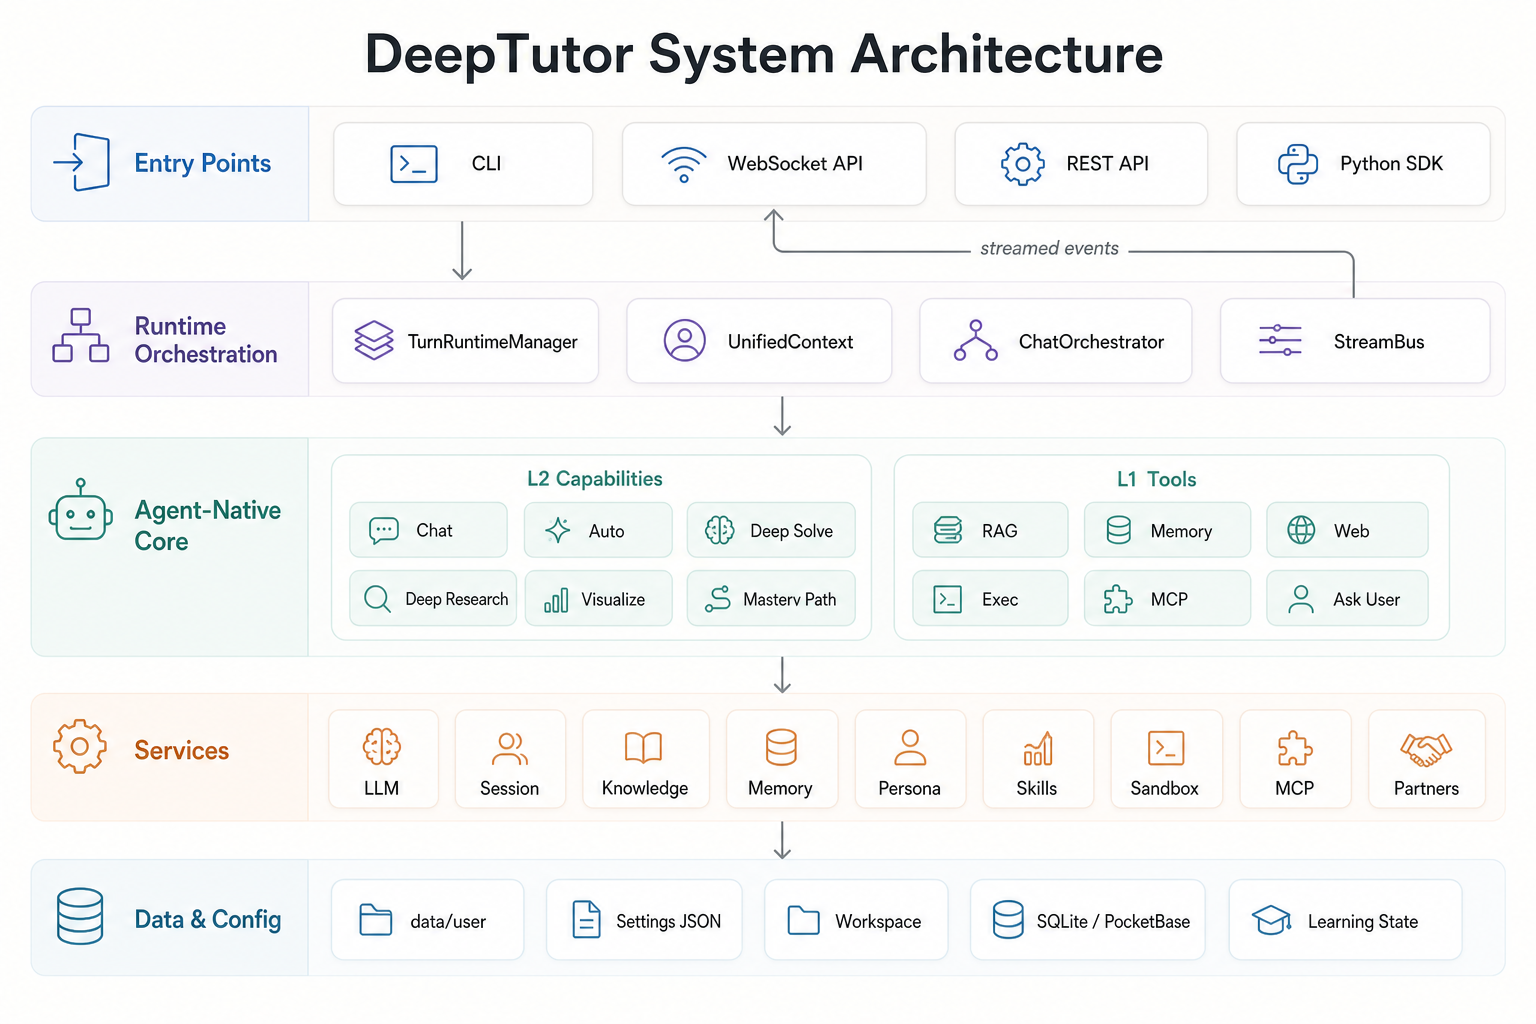
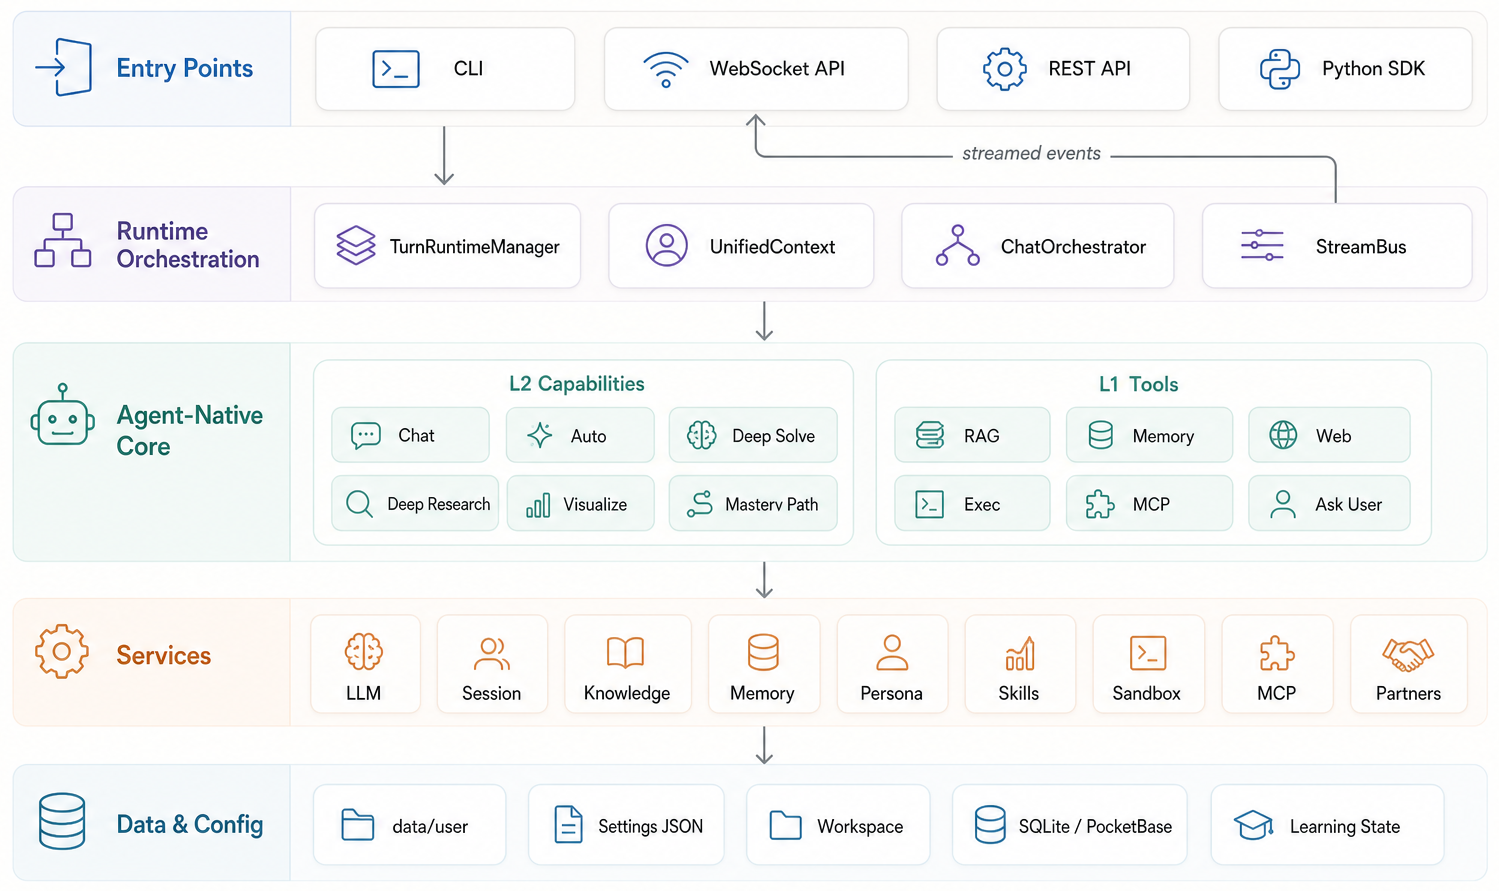
update

diff --git a/web/app/(workspace)/partners/[partnerId]/page.tsx b/web/app/(workspace)/partners/[partnerId]/page.tsx
@@ -10,6 +10,7 @@ import Link from "next/link";
 import { useParams, useRouter, useSearchParams } from "next/navigation";
 import {
   ArrowLeft,
+  Archive,
   Loader2,
   MessageCircle,
   Play,
@@ -30,8 +31,9 @@ import PartnerAvatar from "@/components/partners/PartnerAvatar";
 import PartnerChat from "@/components/partners/PartnerChat";
 import PartnerChannels from "@/components/partners/PartnerChannels";
 import PartnerConfigure from "@/components/partners/PartnerConfigure";
+import PartnerArchives from "@/components/partners/PartnerArchives";
 
-type Tab = "chat" | "configure" | "channels";
+type Tab = "chat" | "configure" | "channels" | "archive";
 
 function PartnerDetail() {
   const params = useParams<{ partnerId: string }>();
@@ -42,7 +44,9 @@ function PartnerDetail() {
 
   const initialTab = (searchParams.get("tab") as Tab) || "chat";
   const [tab, setTab] = useState<Tab>(
-    ["chat", "configure", "channels"].includes(initialTab) ? initialTab : "chat",
+    ["chat", "configure", "channels", "archive"].includes(initialTab)
+      ? initialTab
+      : "chat",
   );
   const [partner, setPartner] = useState<PartnerInfo | null>(null);
   const [loading, setLoading] = useState(true);
@@ -128,6 +132,7 @@ function PartnerDetail() {
     { key: "chat", label: t("Chat"), icon: MessageCircle },
     { key: "configure", label: t("Configure"), icon: Settings2 },
     { key: "channels", label: t("Channels"), icon: Radio },
+    { key: "archive", label: t("Archive"), icon: Archive },
   ];
 
   return (
@@ -221,6 +226,10 @@ function PartnerDetail() {
               color={partner.color}
               avatar={partner.avatar}
             />
+          </div>
+        ) : tab === "archive" ? (
+          <div className="mx-auto h-full max-w-5xl overflow-hidden px-5 py-5">
+            <PartnerArchives partnerId={partnerId} onToast={setToast} />
           </div>
         ) : (
           <div className="mx-auto h-full max-w-3xl overflow-y-auto px-5 py-5">

diff --git a/web/components/partners/PartnerChat.tsx b/web/components/partners/PartnerChat.tsx
@@ -39,6 +39,11 @@ interface ChatMsg {
   error?: boolean;
 }
 
+function resetsVisibleConversation(content: string) {
+  const command = content.trim().split(/\s+/, 1)[0]?.toLowerCase();
+  return command === "/new" || command === "/clear";
+}
+
 export default function PartnerChat({
   partnerId,
   partnerName,
@@ -193,7 +198,11 @@ export default function PartnerChat({
       wsRef.current.send(
         JSON.stringify({ content, session_id: sessionIdRef.current }),
       );
-      setMessages((msgs) => [...msgs, { role: "user", content }]);
+      if (resetsVisibleConversation(content)) {
+        setMessages([]);
+      } else {
+        setMessages((msgs) => [...msgs, { role: "user", content }]);
+      }
       setDraft({ events: [], content: "" });
       setStreaming(true);
       scrollToBottom();

diff --git a/deeptutor/partners/channels/telegram.py b/deeptutor/partners/channels/telegram.py
@@ -20,6 +20,7 @@ from deeptutor.partners.channels.base import BaseChannel
 from deeptutor.partners.config.paths import get_media_dir
 from deeptutor.partners.config.schema import Base, DeliveryOverrides, StreamingSupport
 from deeptutor.partners.helpers import split_message
+from deeptutor.services.partners.commands import build_partner_help_text, partner_command_palette
 
 TELEGRAM_MAX_MESSAGE_LEN = 4000  # Telegram message character limit
 TELEGRAM_REPLY_CONTEXT_MAX_LEN = (
@@ -179,12 +180,14 @@ class TelegramChannel(BaseChannel):
     name = "telegram"
     display_name = "Telegram"
 
-    # Commands registered with Telegram's command menu. Only commands the
-    # partner runtime actually handles belong here — the agent loop has no
-    # command router, so anything else would be silently broken UX.
+    # Commands registered with Telegram's command menu. Keep this generated
+    # from the partner command registry so Telegram and Web stay in sync.
     BOT_COMMANDS = [
         BotCommand("start", "Start the bot"),
-        BotCommand("help", "Show available commands"),
+        *[
+            BotCommand(spec["command"].removeprefix("/"), spec["description"])
+            for spec in partner_command_palette()
+        ],
     ]
 
     @classmethod
@@ -264,7 +267,8 @@ class TelegramChannel(BaseChannel):
         self._app.add_handler(CommandHandler("start", self._on_start))
         self._app.add_handler(CommandHandler("help", self._on_help))
 
-        # Add message handler for text, photos, voice, documents
+        # Add message handler for text, photos, voice, documents. Runtime
+        # slash commands like /new must reach the partner command router.
         self._app.add_handler(
             MessageHandler(
                 (
@@ -273,8 +277,7 @@ class TelegramChannel(BaseChannel):
                     | filters.VOICE
                     | filters.AUDIO
                     | filters.Document.ALL
-                )
-                & ~filters.COMMAND,
+                ),
                 self._on_message,
             )
         )
@@ -485,13 +488,7 @@ class TelegramChannel(BaseChannel):
         """Handle /help command, bypassing ACL so all users can access it."""
         if not update.message:
             return
-        await update.message.reply_text(
-            "🐈 TutorBot commands:\n"
-            "/new — Start a new conversation\n"
-            "/stop — Stop the current task\n"
-            "/restart — Restart the bot\n"
-            "/help — Show available commands"
-        )
+        await update.message.reply_text(build_partner_help_text())
 
     @staticmethod
     def _sender_id(user) -> str:

diff --git a/tests/services/partners/test_partner_runtime.py b/tests/services/partners/test_partner_runtime.py
@@ -320,3 +320,52 @@ class TestContextAssembly:
             "role": "assistant",
             "content": "first reply",
         } in context.conversation_history
+
+
+class TestPartnerCommands:
+    @pytest.mark.asyncio
+    async def test_new_archives_current_session_without_calling_orchestrator(
+        self, partners_root, fake_orchestrator
+    ):
+        fake_orchestrator.script = _finish("first reply")
+        runner = _runner(partners_root)
+        await runner.process_message(_msg("first question"))
+        assert len(fake_orchestrator.seen_contexts) == 1
+
+        reply = await runner.process_message(_msg("/new"))
+
+        assert "Started a new conversation" in reply
+        assert len(fake_orchestrator.seen_contexts) == 1
+        assert runner.store.conversation_history("telegram:42") == []
+        archived = [session for session in runner.store.list_sessions() if session["archived"]]
+        assert len(archived) == 1
+        assert archived[0]["message_count"] == 2
+        assert archived[0]["session_key"].startswith("_archived_")
+
+    @pytest.mark.asyncio
+    async def test_archived_session_does_not_feed_next_turn(
+        self, partners_root, fake_orchestrator
+    ):
+        runner = _runner(partners_root)
+        fake_orchestrator.script = _finish("old reply")
+        await runner.process_message(_msg("old question"))
+        await runner.process_message(_msg("/new"))
+
+        fake_orchestrator.script = _finish("fresh reply")
+        await runner.process_message(_msg("fresh question"))
+
+        context = fake_orchestrator.seen_contexts[-1]
+        assert context.conversation_history == []
+
+    @pytest.mark.asyncio
+    async def test_telegram_bot_command_suffix_is_supported(
+        self, partners_root, fake_orchestrator
+    ):
+        fake_orchestrator.script = _finish("first reply")
+        runner = _runner(partners_root)
+        await runner.process_message(_msg("first question"))
+
+        reply = await runner.process_message(_msg("/new@DeepTutorBot"))
+
+        assert "Started a new conversation" in reply
+        assert len(fake_orchestrator.seen_contexts) == 1

diff --git a/deeptutor_cli/chat.py b/deeptutor_cli/chat.py
@@ -108,7 +108,7 @@ async def _chat_repl(state: ChatState) -> None:
         Panel(
             "[bold]DeepTutor CLI[/]\n"
             "Type a message to chat. Ctrl-C interrupts a running turn. Commands:\n"
-            "  /quit  /session  /new\n"
+            "  /quit  /session  /status  /new  /clear\n"
             "  /regenerate (alias /retry) — re-run the last user message\n"
             "  /tool on|off <name>\n"
             "  /cap <name>\n"
@@ -186,7 +186,10 @@ def _apply_command(raw: str, state: ChatState) -> bool:
     if command == "/session":
         console.print(f"session={state.session_id or '(new)'}")
         return True
-    if command == "/new":
+    if command == "/status":
+        _print_state(state)
+        return True
+    if command in {"/new", "/clear"}:
         state.session_id = None
         console.print("[dim]Started a new chat context.[/]")
         return True

diff --git a/deeptutor/services/partners/commands.py b/deeptutor/services/partners/commands.py
@@ -82,7 +82,7 @@ class PartnerCommandHandler:
         if not parts:
             return None
 
-        command = parts[0].lower()
+        command = parts[0].lower().split("@", 1)[0]
         args = parts[1:]
         if command == "/help":
             return PartnerCommandResult(build_partner_help_text())
